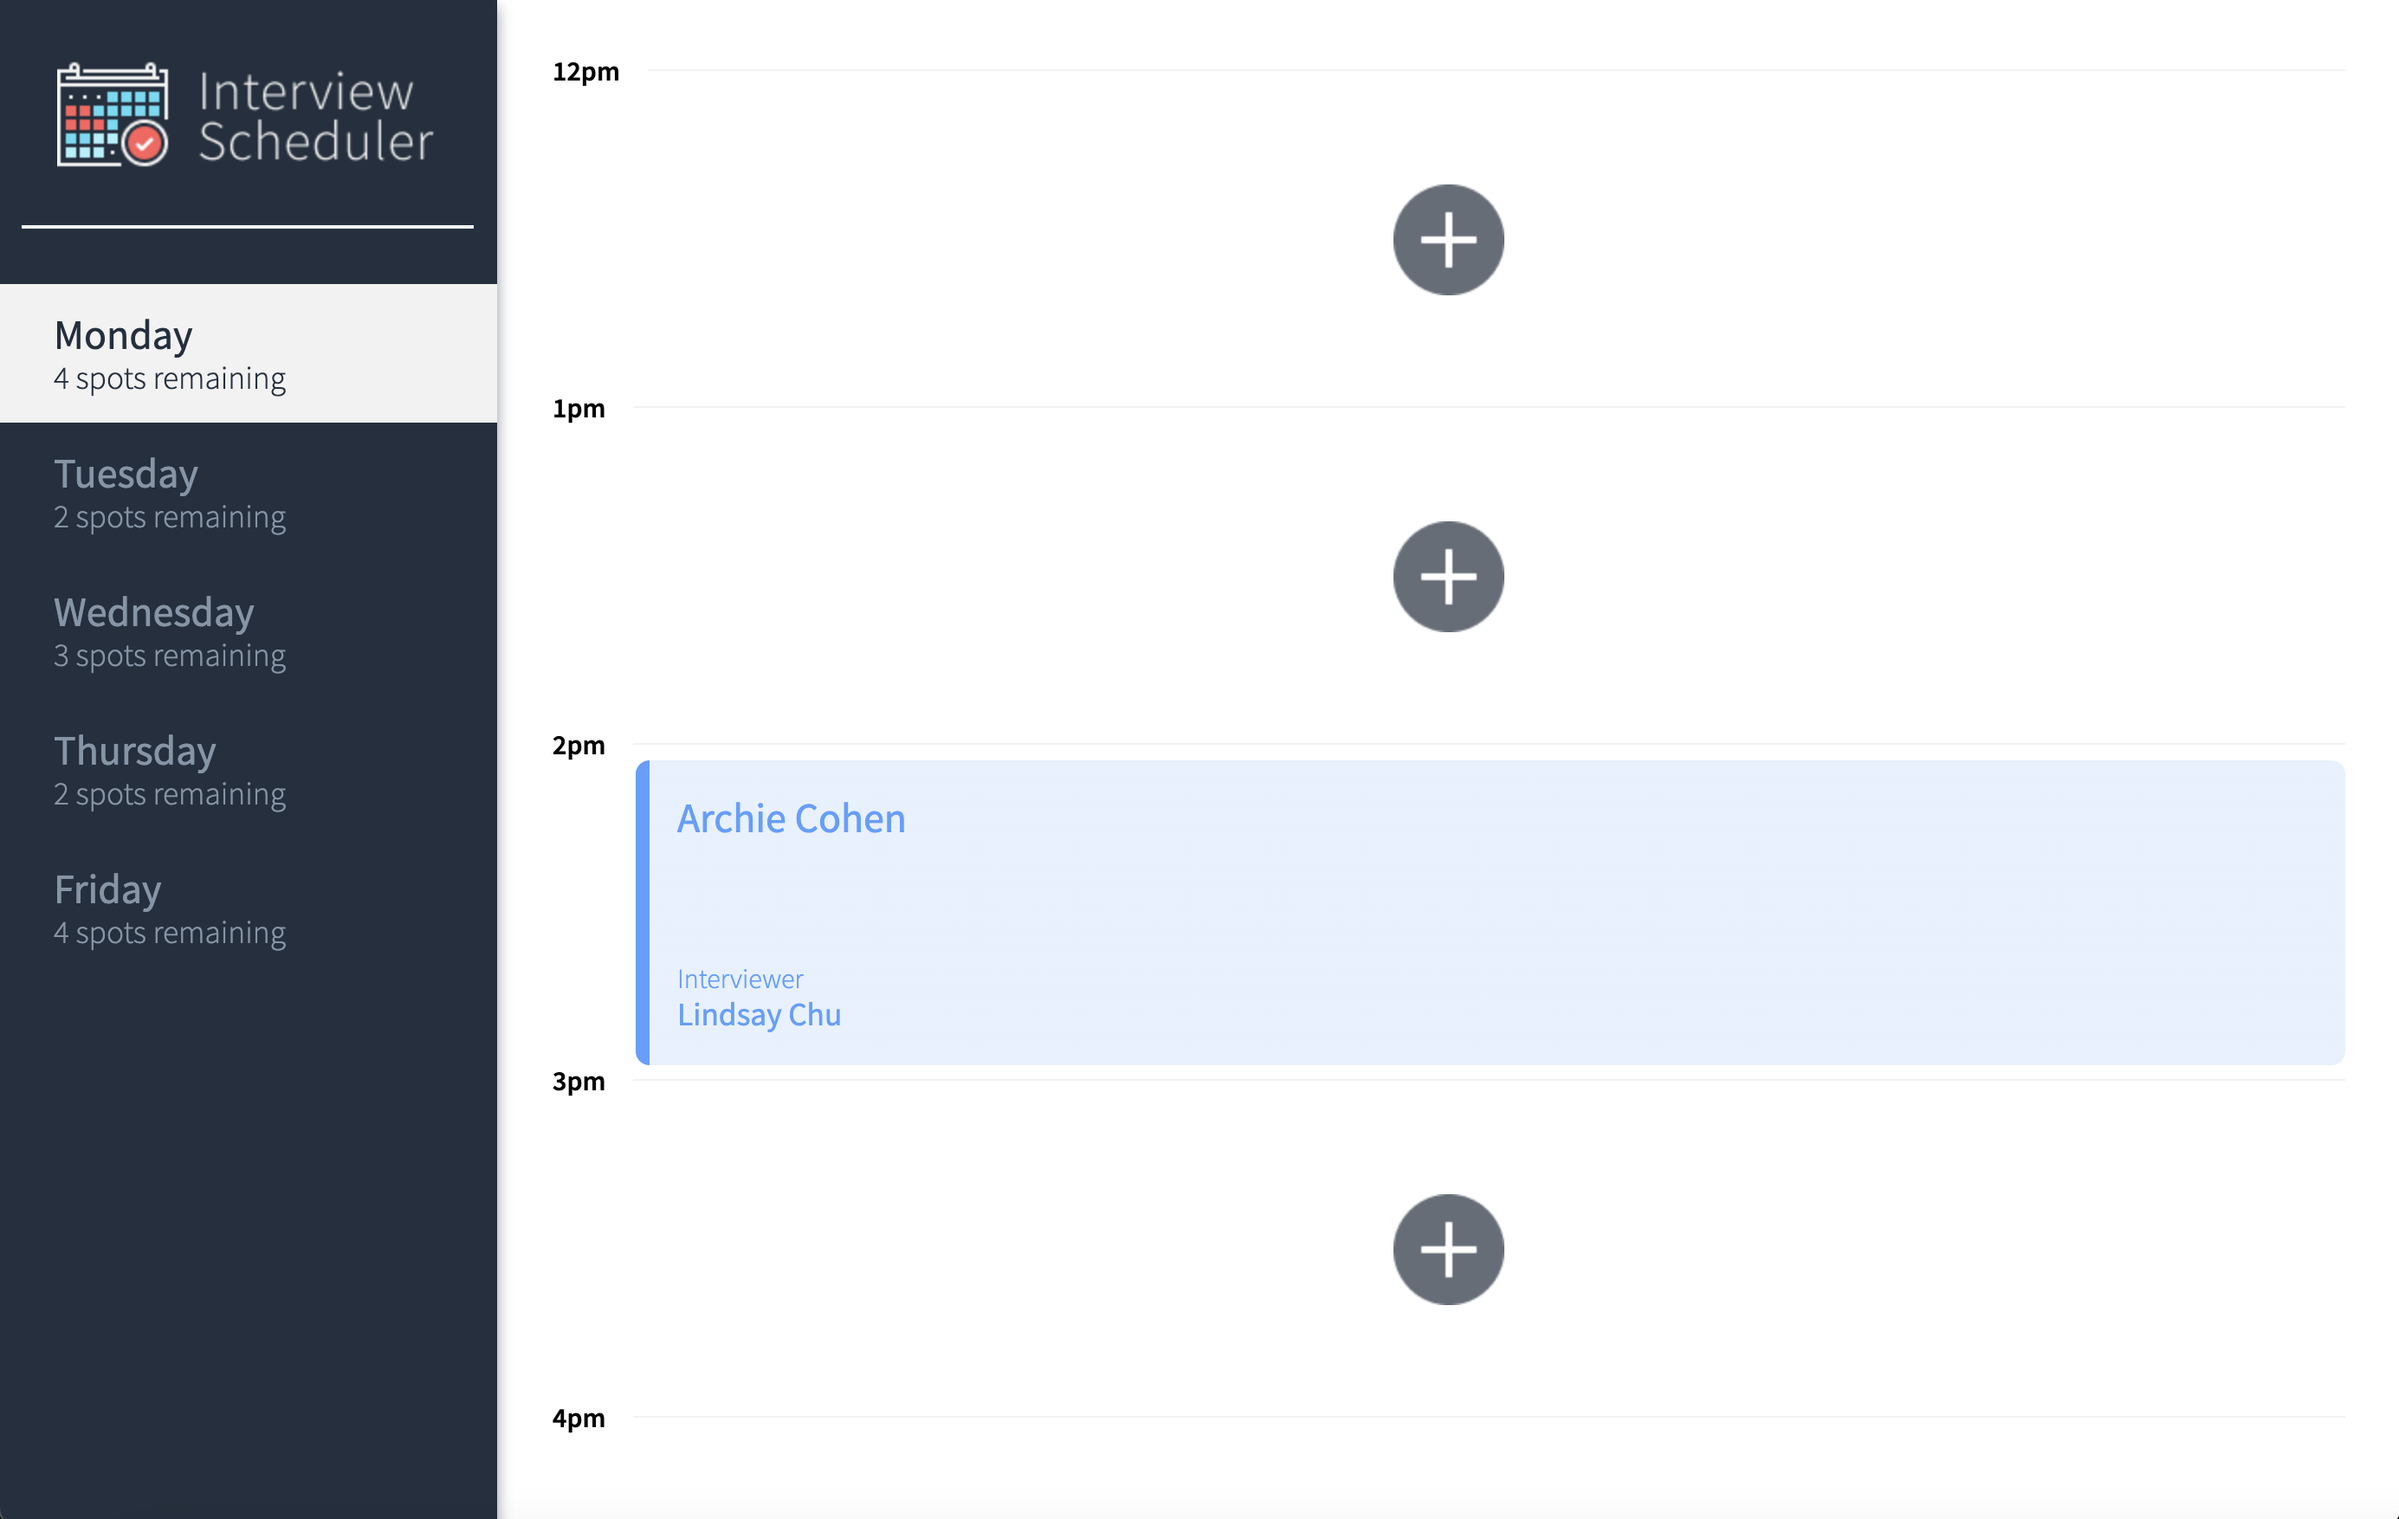
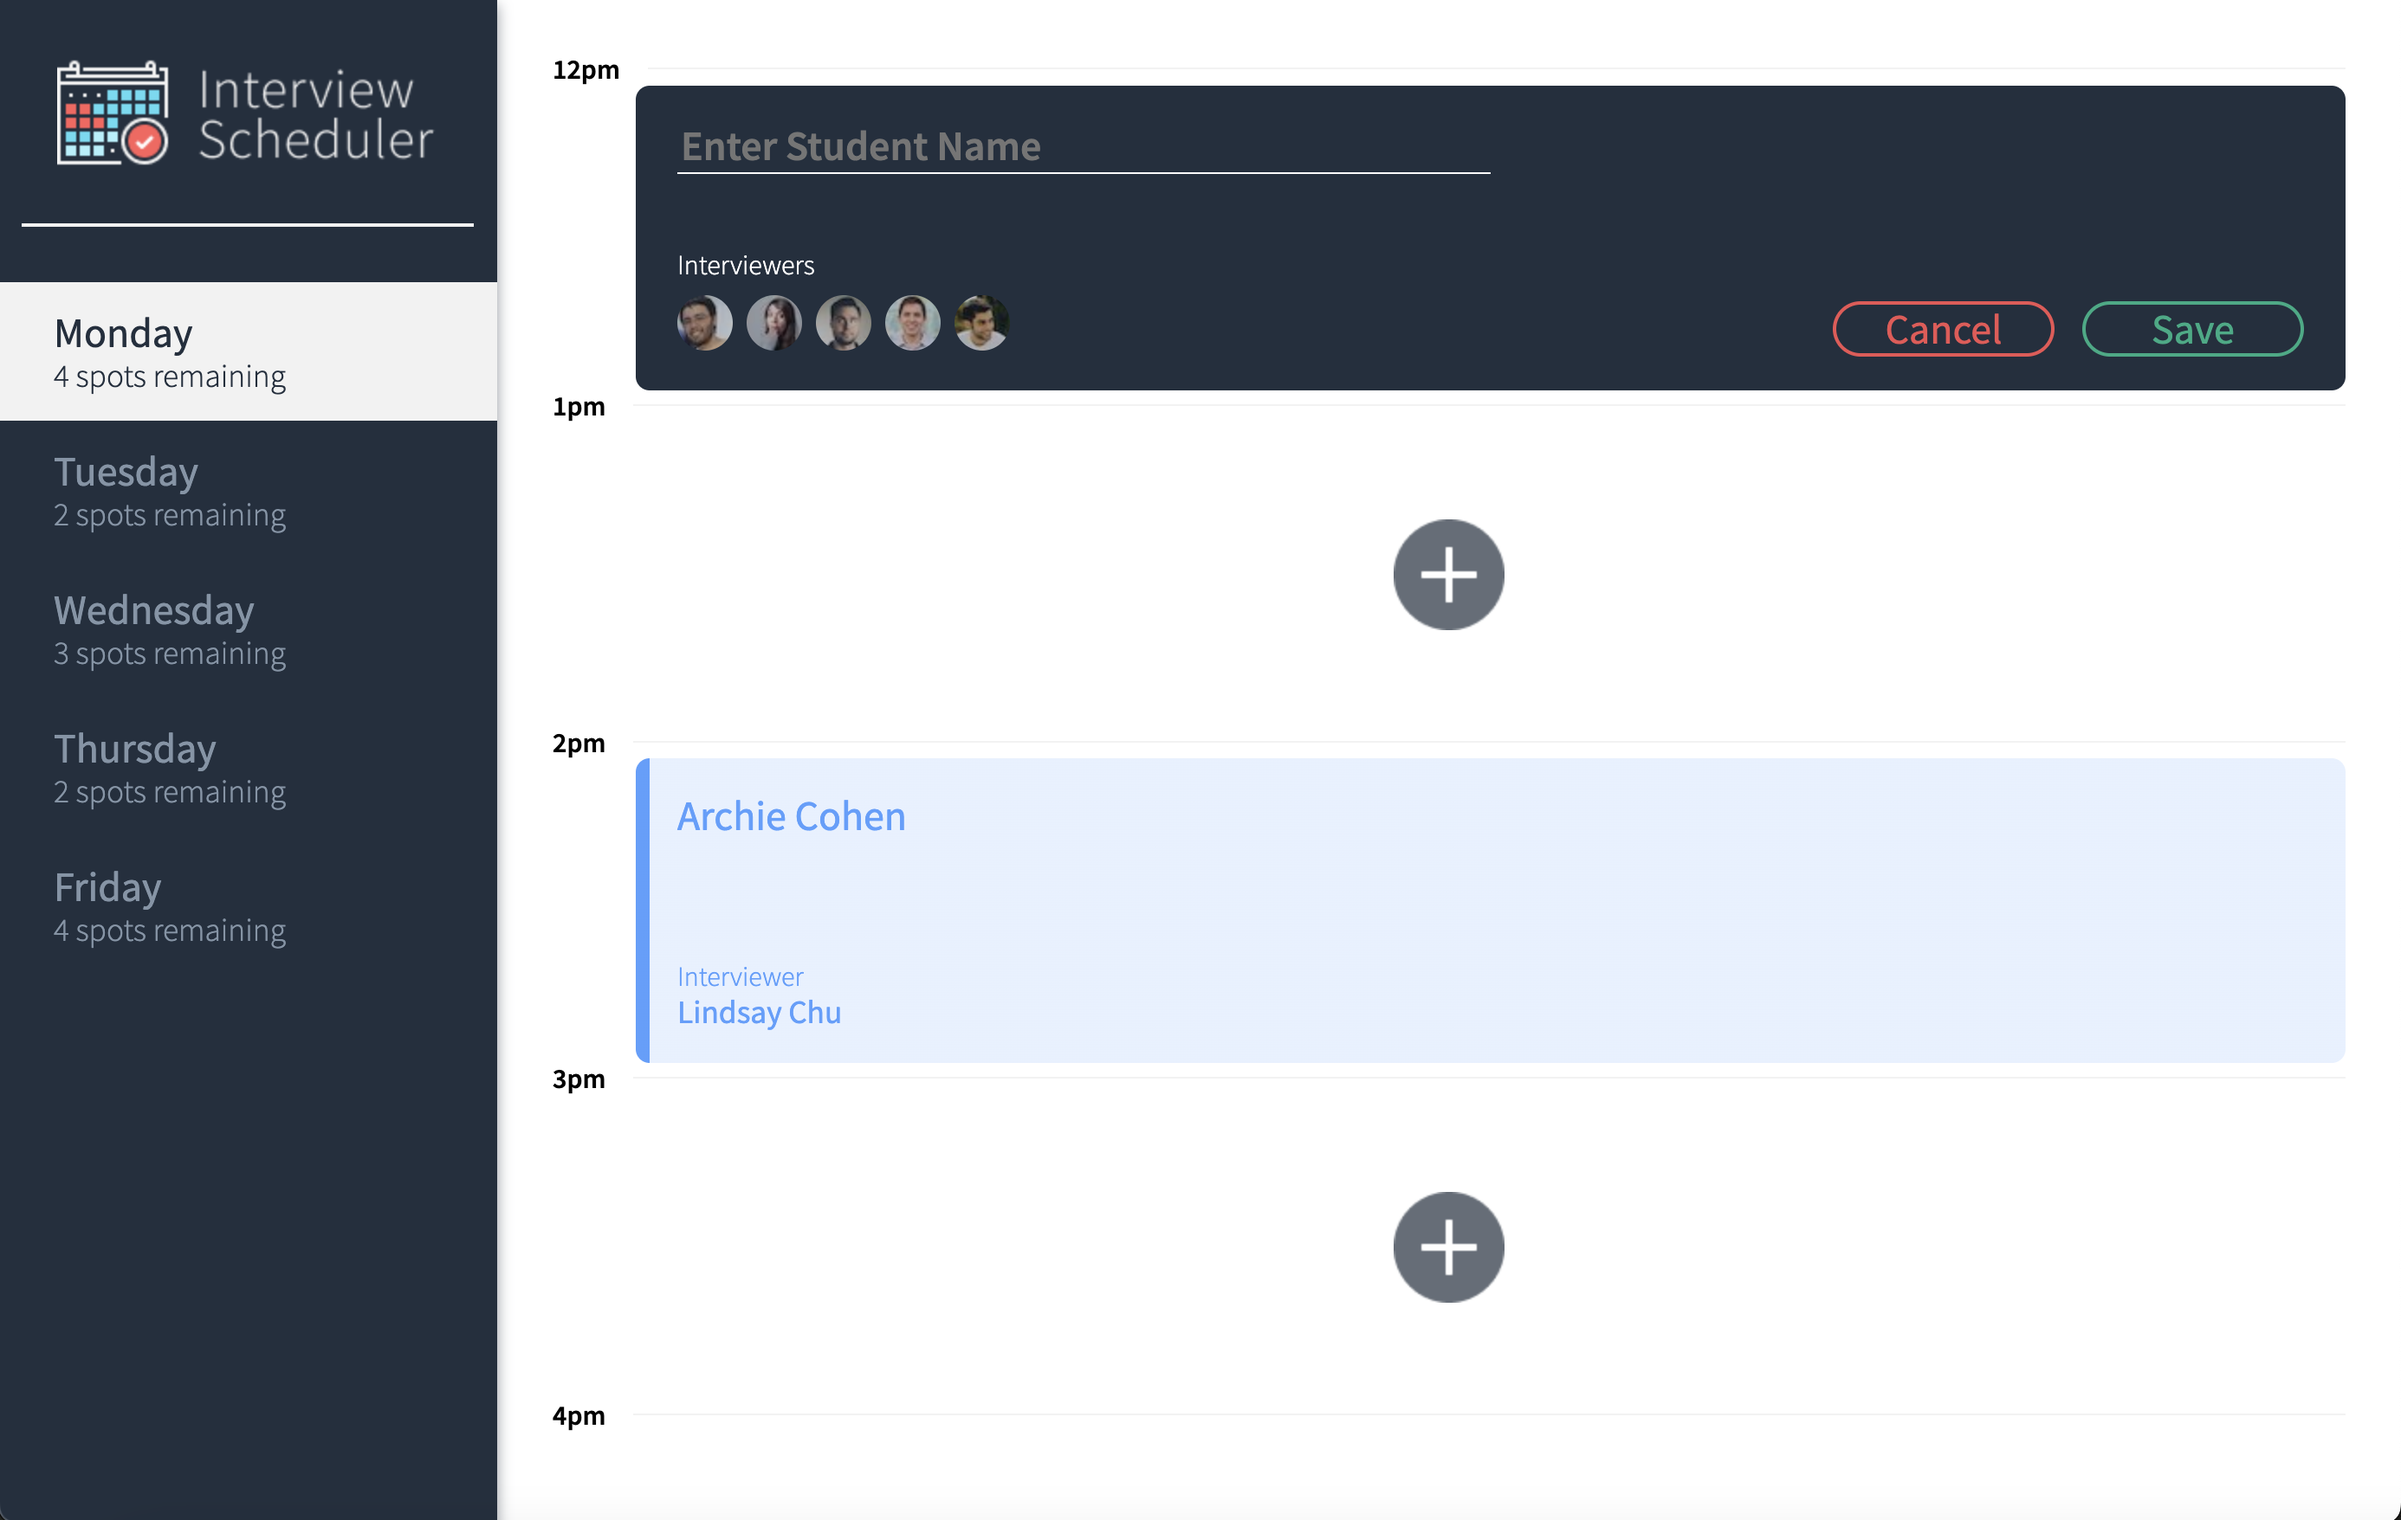
updating screenshots

diff --git a/README.md b/README.md
@@ -20,7 +20,10 @@ npm run storybook
 
 ## Screenshots 
 ### Without Any Actions/Homepage 
+!["Homepage"](https://github.com/NicoleLaww/scheduler/blob/master/docs/appointment-form.png?raw=true)
 
 ### Adding Appointment
+!["Adding Appointment"](https://github.com/NicoleLaww/scheduler/blob/master/docs/scheduler-home.png?raw=true)
 
 ### Deletion Confirmation 
+!["Deletion Confirmation"](https://github.com/NicoleLaww/scheduler/blob/master/docs/appointment-deletion-confirmation.png?raw=true)
